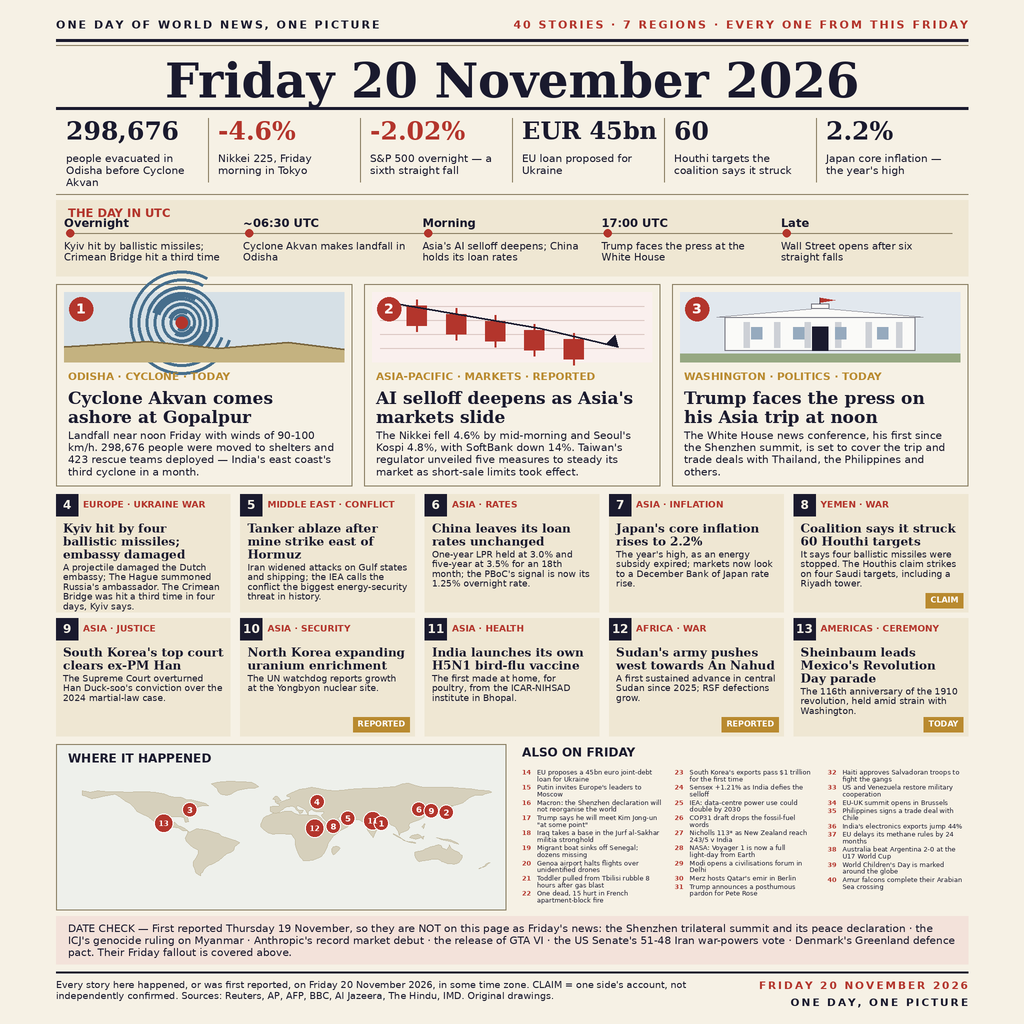
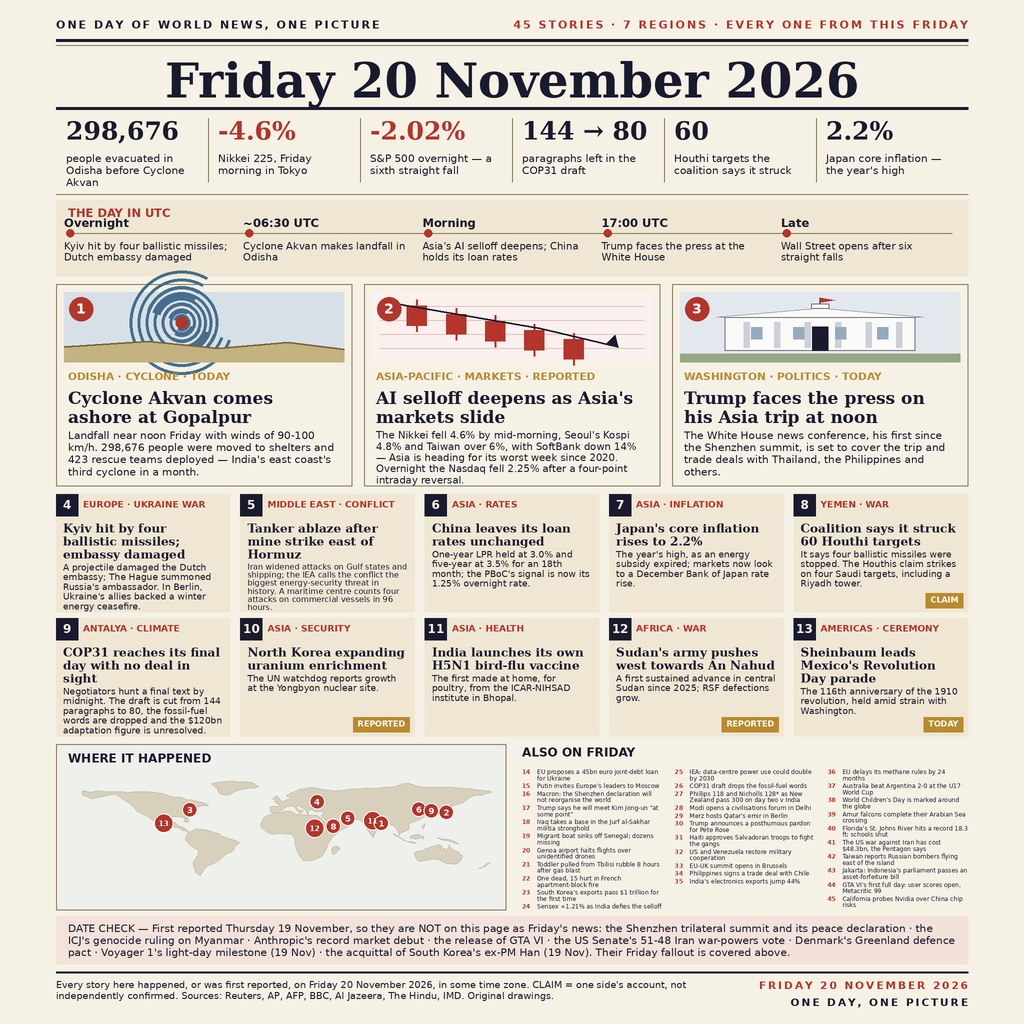
v2: leaderboard-informed revision (COP31 hero card, updated markets, stricter date check, 45 stories)

diff --git a/build_poster.py b/build_poster.py
@@ -115,7 +115,7 @@ CW = 1024 - 2 * MX  # content width (final px)
 # ---------------------------------------------------------------- 1. kicker
 kf = sans_b(11)
 spaced(MX, 18, "ONE DAY OF WORLD NEWS, ONE PICTURE", kf, INK)
-spaced_right(1024 - MX, 18, "40 STORIES · 7 REGIONS · EVERY ONE FROM THIS FRIDAY", kf, RED)
+spaced_right(1024 - MX, 18, "45 STORIES · 7 REGIONS · EVERY ONE FROM THIS FRIDAY", kf, RED)
 hline(MX, 1024 - MX, 40, INK, 3)
 hline(MX, 1024 - MX, 45, HAIR, 1)
 
@@ -131,7 +131,7 @@ stats = [
     ("298,676", "people evacuated in Odisha before Cyclone Akvan"),
     ("-4.6%", "Nikkei 225, Friday morning in Tokyo"),
     ("-2.02%", "S&P 500 overnight — a sixth straight fall"),
-    ("EUR 45bn", "EU loan proposed for Ukraine"),
+    ("144 → 80", "paragraphs left in the COP31 draft"),
     ("60", "Houthi targets the coalition says it struck"),
     ("2.2%", "Japan core inflation — the year's high"),
 ]
@@ -152,7 +152,7 @@ ty = 200
 d.rectangle([X(MX), X(ty), X(1024 - MX), X(ty + 76)], fill=PANEL)
 d.text((X(MX + 12), X(ty + 6)), "THE DAY IN UTC", font=sans_b(11.5), fill=RED)
 stops = [
-    ("Overnight", "Kyiv hit by ballistic missiles; Crimean Bridge hit a third time"),
+    ("Overnight", "Kyiv hit by four ballistic missiles; Dutch embassy damaged"),
     ("~06:30 UTC", "Cyclone Akvan makes landfall in Odisha"),
     ("Morning", "Asia's AI selloff deepens; China holds its loan rates"),
     ("17:00 UTC", "Trump faces the press at the White House"),
@@ -219,7 +219,7 @@ heroes = [
     ("1", "ODISHA · CYCLONE · TODAY", "Cyclone Akvan comes ashore at Gopalpur",
      "Landfall near noon Friday with winds of 90-100 km/h. 298,676 people were moved to shelters and 423 rescue teams deployed — India's east coast's third cyclone in a month.", art_storm),
     ("2", "ASIA-PACIFIC · MARKETS · REPORTED", "AI selloff deepens as Asia's markets slide",
-     "The Nikkei fell 4.6% by mid-morning and Seoul's Kospi 4.8%, with SoftBank down 14%. Taiwan's regulator unveiled five measures to steady its market as short-sale limits took effect.", art_chart),
+     "The Nikkei fell 4.6% by mid-morning, Seoul's Kospi 4.8% and Taiwan over 6%, with SoftBank down 14% — Asia is heading for its worst week since 2020. Overnight the Nasdaq fell 2.25% after a four-point intraday reversal.", art_chart),
     ("3", "WASHINGTON · POLITICS · TODAY", "Trump faces the press on his Asia trip at noon",
      "The White House news conference, his first since the Shenzhen summit, is set to cover the trip and trade deals with Thailand, the Philippines and others.", art_whitehouse),
 ]
@@ -236,22 +236,25 @@ for i, (num, tag, head, dek, art) in enumerate(heroes):
     d.text((X(cx + 25 - nw / 2), X(hy + 16.5)), num, font=sans_b(14), fill=WHITE)
     d.text((X(cx + 12), X(hy + 86)), tag, font=tagf, fill=GOLD)
     yy = draw_lines(cx + 12, hy + 104, wrap(head, hf, hw - 24), hf, INK, 1.12)
-    draw_lines(cx + 12, yy + 3, wrap(dek, dkf, hw - 24), dkf, INK, 1.15)
+    # Hero 2's longer dek is set a touch smaller so it stays inside its card.
+    hdkf = sans(10.0) if num == "2" else dkf
+    hlead = 1.12 if num == "2" else 1.15
+    draw_lines(cx + 12, yy + 3, wrap(dek, hdkf, hw - 24), hdkf, INK, hlead)
 
 # ---------------------------------------------------------------- 6. story grid 4-13
 cards = [
     ("4", "EUROPE · UKRAINE WAR", None, "Kyiv hit by four ballistic missiles; embassy damaged",
-     "A projectile damaged the Dutch embassy; The Hague summoned Russia's ambassador. The Crimean Bridge was hit a third time in four days, Kyiv says."),
+     "A projectile damaged the Dutch embassy; The Hague summoned Russia's ambassador. In Berlin, Ukraine's allies backed a winter energy ceasefire."),
     ("5", "MIDDLE EAST · CONFLICT", None, "Tanker ablaze after mine strike east of Hormuz",
-     "Iran widened attacks on Gulf states and shipping; the IEA calls the conflict the biggest energy-security threat in history."),
+     "Iran widened attacks on Gulf states and shipping; the IEA calls the conflict the biggest energy-security threat in history. A maritime centre counts four attacks on commercial vessels in 96 hours."),
     ("6", "ASIA · RATES", None, "China leaves its loan rates unchanged",
      "One-year LPR held at 3.0% and five-year at 3.5% for an 18th month; the PBoC's signal is now its 1.25% overnight rate."),
     ("7", "ASIA · INFLATION", None, "Japan's core inflation rises to 2.2%",
      "The year's high, as an energy subsidy expired; markets now look to a December Bank of Japan rate rise."),
     ("8", "YEMEN · WAR", "CLAIM", "Coalition says it struck 60 Houthi targets",
      "It says four ballistic missiles were stopped. The Houthis claim strikes on four Saudi targets, including a Riyadh tower."),
-    ("9", "ASIA · JUSTICE", None, "South Korea's top court clears ex-PM Han",
-     "The Supreme Court overturned Han Duck-soo's conviction over the 2024 martial-law case."),
+    ("9", "ANTALYA · CLIMATE", None, "COP31 reaches its final day with no deal in sight",
+     "Negotiators hunt a final text by midnight. The draft is cut from 144 paragraphs to 80, the fossil-fuel words are dropped and the $120bn adaptation figure is unresolved."),
     ("10", "ASIA · SECURITY", "REPORTED", "North Korea expanding uranium enrichment",
      "The UN watchdog reports growth at the Yongbyon nuclear site."),
     ("11", "ASIA · HEALTH", None, "India launches its own H5N1 bird-flu vaccine",
@@ -279,7 +282,10 @@ for idx, (num, tag, chip, head, dek) in enumerate(cards):
         d.rectangle([X(cx + gw - cwid - 5), X(cy + gh - 19), X(cx + gw - 5), X(cy + gh - 4)], fill=GOLD)
         d.text((X(cx + gw - cwid - 0.5), X(cy + gh - 17)), chip, font=chipf, fill=WHITE)
     yy = draw_lines(cx + 7, cy + 27, wrap(head, chf, gw - 14), chf, INK, 1.08)
-    draw_lines(cx + 7, yy + 2, wrap(dek, cdf, gw - 14), cdf, INK, 1.08)
+    # Card 5's extended dek is set a touch smaller so it stays inside its card.
+    cdkf = sans(8.0) if num == "5" else cdf
+    cdlead = 1.02 if num == "5" else 1.08
+    draw_lines(cx + 7, yy + 2, wrap(dek, cdkf, gw - 14), cdkf, INK, cdlead)
 
 # ---------------------------------------------------------------- 7. bottom band
 by = gy + 2 * gh + 6 + 8
@@ -370,8 +376,7 @@ briefs = [
     "Sensex +1.21% as India defies the selloff",
     "IEA: data-centre power use could double by 2030",
     "COP31 draft drops the fossil-fuel words",
-    "Nicholls 113* as New Zealand reach 243/5 v India",
-    "NASA: Voyager 1 is now a full light-day from Earth",
+    "Phillips 118 and Nicholls 128* as New Zealand pass 300 on day two v India",
     "Modi opens a civilisations forum in Delhi",
     "Merz hosts Qatar's emir in Berlin",
     "Trump announces a posthumous pardon for Pete Rose",
@@ -384,6 +389,12 @@ briefs = [
     "Australia beat Argentina 2-0 at the U17 World Cup",
     "World Children's Day is marked around the globe",
     "Amur falcons complete their Arabian Sea crossing",
+    "Florida's St. Johns River hits a record 18.3 ft; schools shut",
+    "The US war against Iran has cost $48.3bn, the Pentagon says",
+    "Taiwan reports Russian bombers flying east of the island",
+    "Jakarta: Indonesia's parliament passes an asset-forfeiture bill",
+    "GTA VI's first full day: user scores open, Metacritic 99",
+    "California probes Nvidia over China chip risks",
 ]
 bcolw = (aw - 24) / 3
 per = (len(briefs) + 2) // 3
@@ -426,7 +437,8 @@ dcf = sans(10.5)
 dc = ("DATE CHECK — First reported Thursday 19 November, so they are NOT on this page as Friday's news: "
       "the Shenzhen trilateral summit and its peace declaration · the ICJ's genocide ruling on Myanmar · "
       "Anthropic's record market debut · the release of GTA VI · the US Senate's 51-48 Iran war-powers vote · "
-      "Denmark's Greenland defence pact. Their Friday fallout is covered above.")
+      "Denmark's Greenland defence pact · Voyager 1's light-day milestone (19 Nov) · "
+      "the acquittal of South Korea's ex-PM Han (19 Nov). Their Friday fallout is covered above.")
 draw_lines(MX + 12, dy + 6, wrap(dc, dcf, CW - 24), dcf, INK, 1.15)
 
 # ---------------------------------------------------------------- 9. footer
